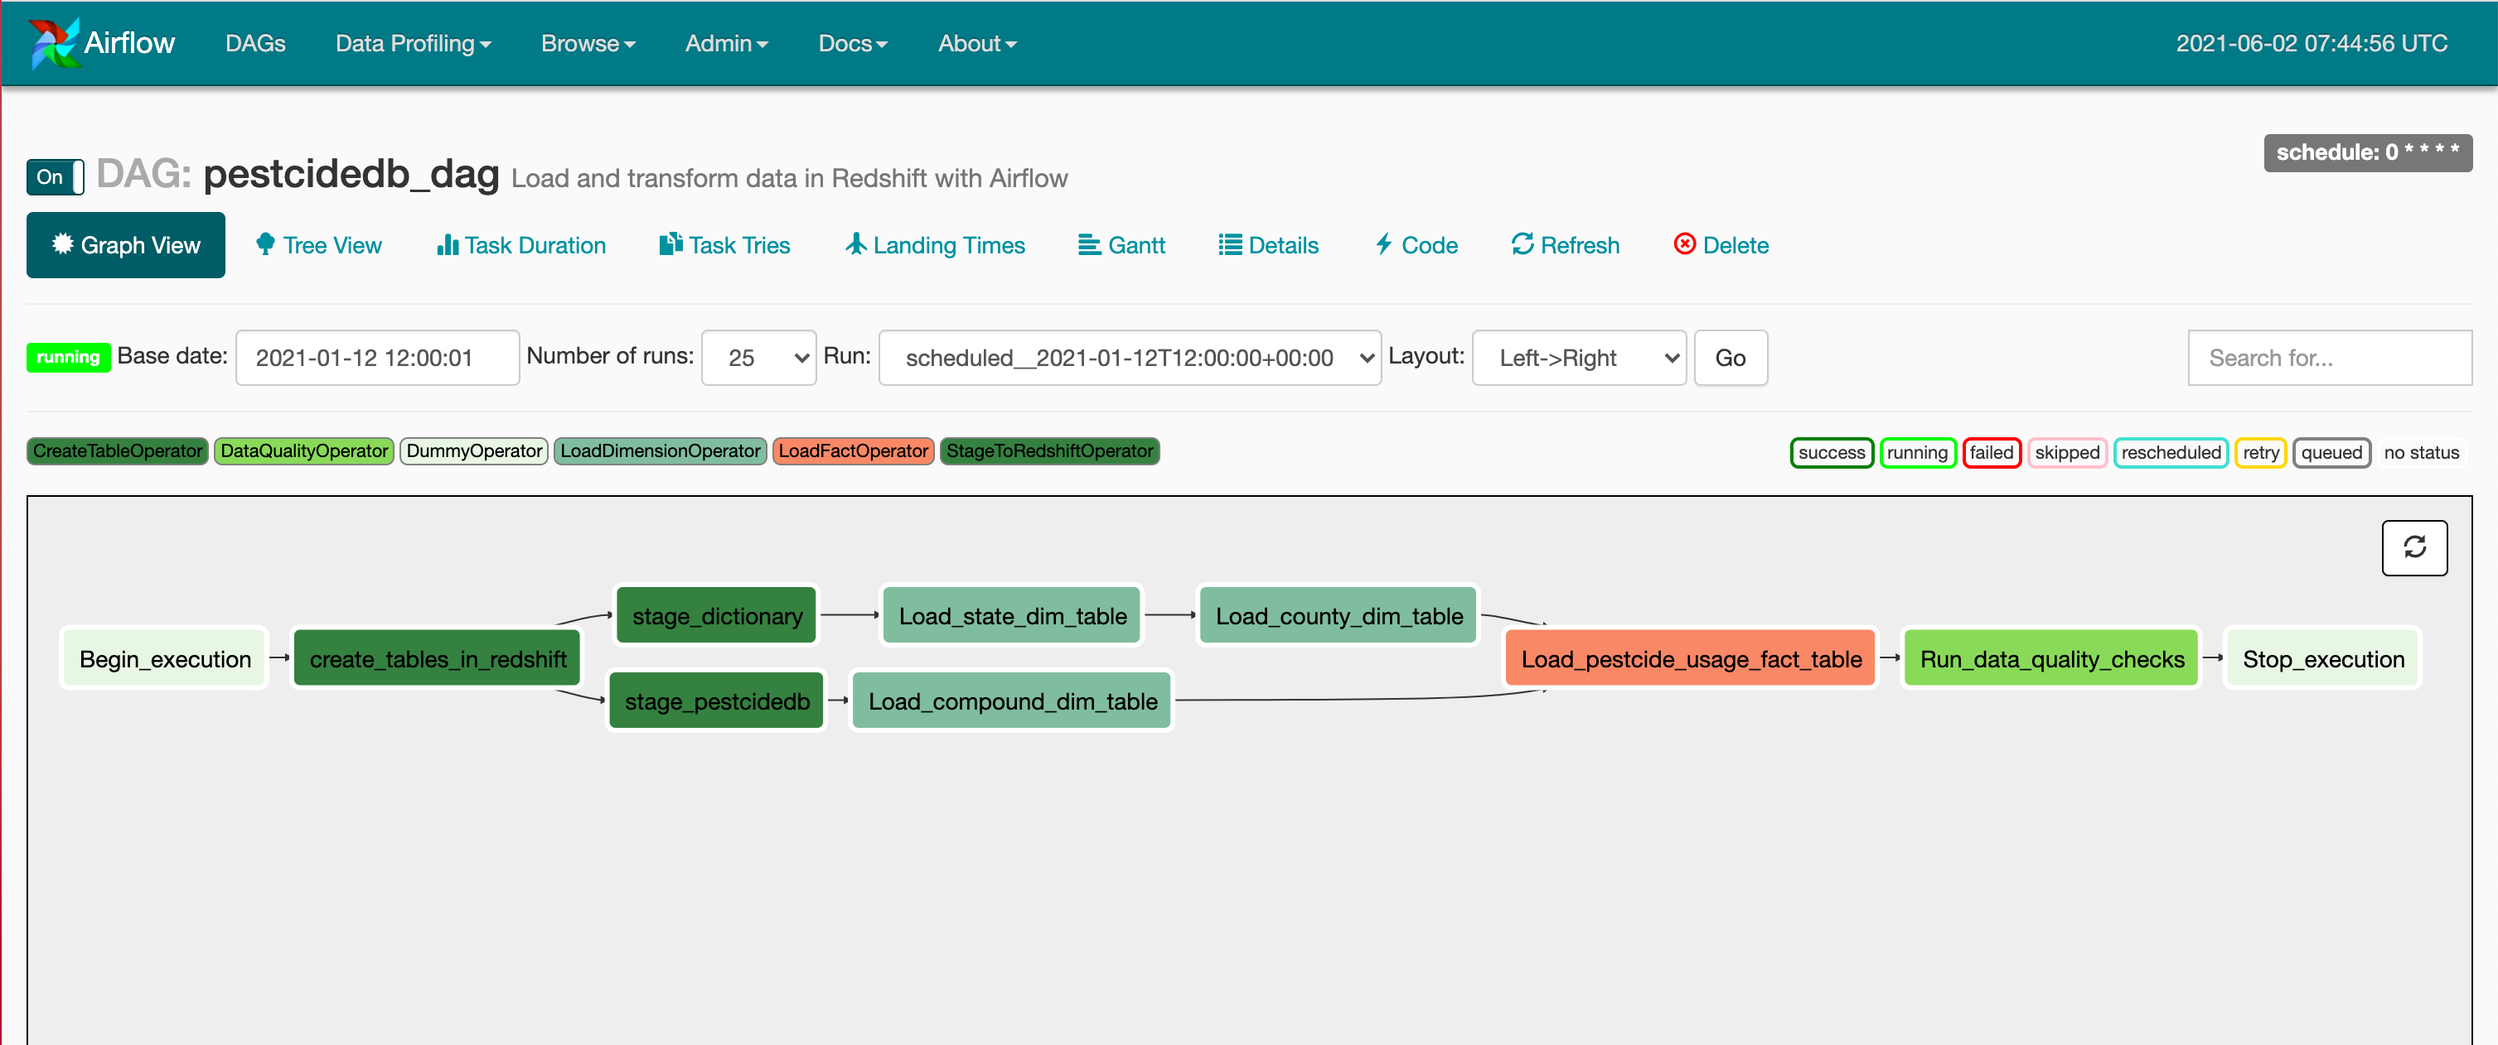
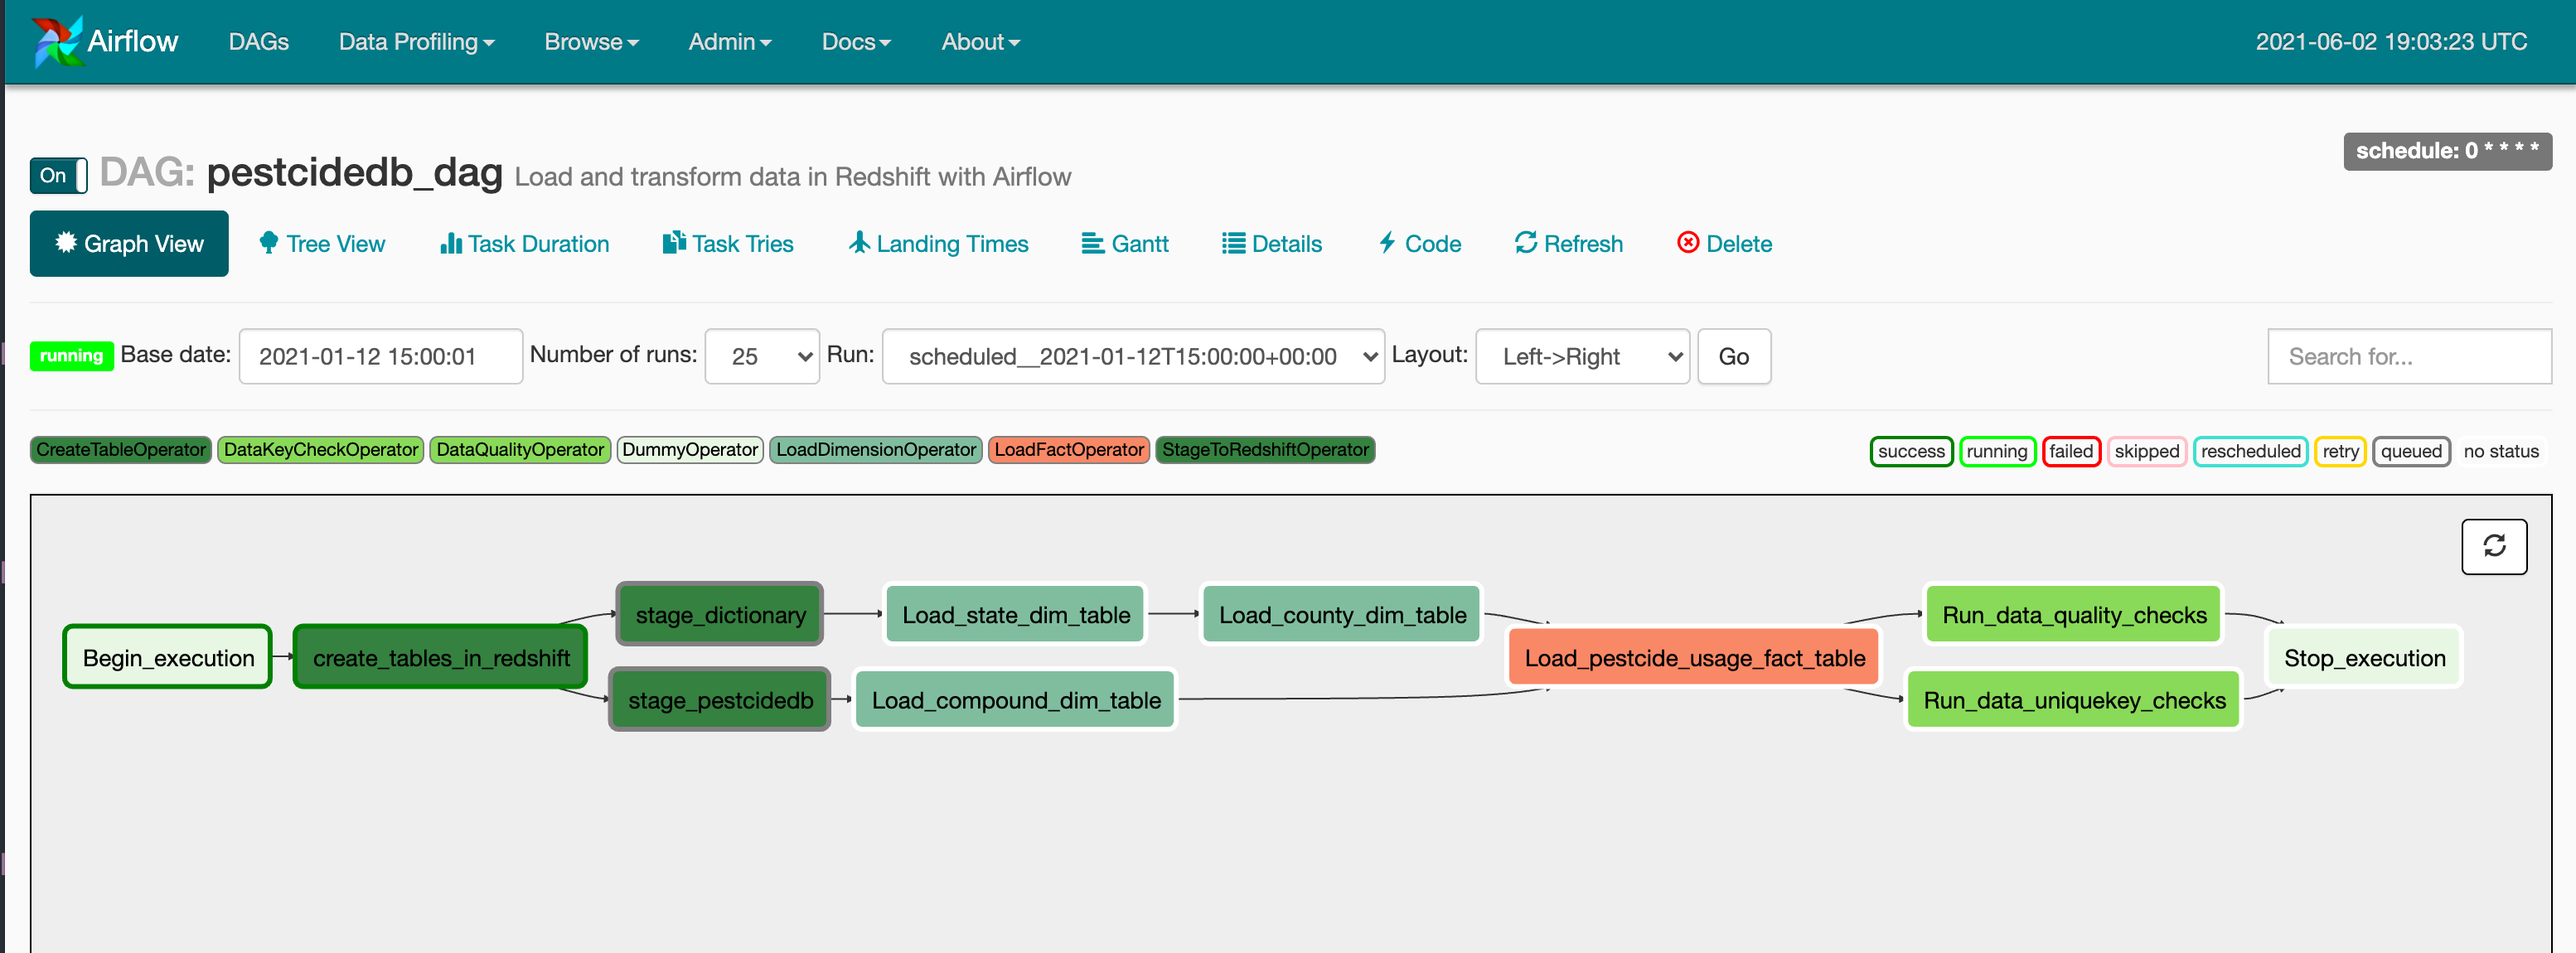
added another quality checker

diff --git a/capstone/pestcide/airflow/dags/dag.py b/capstone/pestcide/airflow/dags/dag.py
@@ -3,7 +3,7 @@ import os
 from airflow import DAG
 from airflow.operators.dummy_operator import DummyOperator
 from airflow.operators import (CreateTableOperator, StageToRedshiftOperator, LoadFactOperator,
-                                LoadDimensionOperator, DataQualityOperator)
+                                LoadDimensionOperator, DataQualityOperator, DataKeyCheckOperator)
 from helpers import SqlQueries
 
 s3_bucket='pestcidedb-capstone'
@@ -101,6 +101,14 @@ run_quality_checks = DataQualityOperator(
     tables=['pestcide_use', 'compounds', 'counties', 'states']
 )
 
+run_uniquekey_checks = DataKeyCheckOperator(
+    task_id='Run_data_uniquekey_checks',
+    dag=dag,
+    aws_credentials_id='aws_credentials',
+    redshift_conn_id='redshift',
+    tables=['compounds', 'counties', 'states']
+)
+
 end_operator = DummyOperator(task_id='Stop_execution',  dag=dag)
 
 start_operator >> create_tables_in_redshift
@@ -109,5 +117,5 @@ stage_dictionary_to_redshift >> load_state_dimension_table
 load_state_dimension_table >> load_county_dimension_table
 stage_pestcidedb_to_redshift >> load_compound_dimension_table
 [load_county_dimension_table, load_compound_dimension_table] >> load_pestcide_usage_table
-load_pestcide_usage_table >> run_quality_checks
-run_quality_checks >> end_operator
+load_pestcide_usage_table >> [run_quality_checks, run_uniquekey_checks]
+[run_quality_checks, run_uniquekey_checks] >> end_operator

diff --git a/capstone/pestcide/airflow/plugins/operators/data_uniquekey_check.py b/capstone/pestcide/airflow/plugins/operators/data_uniquekey_check.py
@@ -1,0 +1,33 @@
+from airflow.hooks.postgres_hook import PostgresHook
+from airflow.models import BaseOperator
+from airflow.utils.decorators import apply_defaults
+
+class DataKeyCheckOperator(BaseOperator):
+
+    ui_color = '#89DA59'
+
+    key_names = {'pestcide_use': 'pestcide_use_id',
+                 'compounds': 'compound_id',
+                 'counties': 'county_id',
+                 'states': 'state_code'}
+
+    @apply_defaults
+    def __init__(self,
+                 aws_credentials_id='',
+                 redshift_conn_id='',
+                 tables=[],
+                 *args, **kwargs):
+
+        super(DataKeyCheckOperator, self).__init__(*args, **kwargs)
+        self.aws_credentials_id = aws_credentials_id
+        self.redshift_conn_id = redshift_conn_id
+        self.tables = tables
+
+    def execute(self, context):
+        redshift = PostgresHook(self.redshift_conn_id)
+        for t in self.tables:
+            records = redshift.get_records(f"SELECT {self.key_names[t]}, count(*) FROM {t} GROUP BY {self.key_names[t]} HAVING count(*) > 1;")
+            if len(records) > 0:
+                self.log.error(f"Data quality check failed for {t}.")
+                raise ValueError(f"Data quality check failed for {t}.")
+            self.log.info(f"Data quality check passed for {t}.")

diff --git a/capstone/pestcide/airflow/plugins/operators/__init__.py b/capstone/pestcide/airflow/plugins/operators/__init__.py
@@ -3,11 +3,13 @@ from operators.stage_redshift import StageToRedshiftOperator
 from operators.load_fact import LoadFactOperator
 from operators.load_dimension import LoadDimensionOperator
 from operators.data_quality import DataQualityOperator
+from operators.data_uniquekey_check import DataKeyCheckOperator
 
 __all__ = [
     'CreateTableOperator',
     'StageToRedshiftOperator',
     'LoadFactOperator',
     'LoadDimensionOperator',
-    'DataQualityOperator'
+    'DataQualityOperator',
+    'DataKeyCheckOperator'
 ]

diff --git a/capstone/pestcide/airflow/plugins/__init__.py b/capstone/pestcide/airflow/plugins/__init__.py
@@ -13,7 +13,8 @@ class PestcideDBPlugin(AirflowPlugin):
         operators.StageToRedshiftOperator,
         operators.LoadFactOperator,
         operators.LoadDimensionOperator,
-        operators.DataQualityOperator
+        operators.DataQualityOperator,
+        operators.DataKeyCheckOperator
     ]
     helpers = [
         helpers.SqlQueries

diff --git a/capstone/pestcide/Readme.md b/capstone/pestcide/Readme.md
@@ -3,7 +3,7 @@ Data Engineering Capstone Project
 
 # Project Summary
 
-The objective of this project was to create an ETL pipeline for pestcide usage by county and year in the United States to form an analytics database on pestcide usage. 
+The objective of this project was to create an ETL pipeline for pestcide usage by county and year in the United States to form an analytics database on pestcide usage. The tools we are going to use here are Amazon S3, Amazon Redshift, Apache Airflow, Jupyter Notebook. We are using two dataset. One is the dataset of pestcide usage based on year and location. The other is the dataset of locations. At the end of DAG, we will check the data quality by checking the count of data and checking the data types are correct in each table and column.
 
 We will read, parse and clean the data from local, Amazon S3 and transfer the data to redshift tables in AWS. We will orchestrate the data flow through Apache Airflow DAGs.
 
@@ -24,6 +24,8 @@ We will read, parse and clean the data from local, Amazon S3 and transfer the da
 
 # Data Model
 
+We are using relational database in Redshift with Postgresql. The reason we use relational database is the data in dictionary and pestcide usage are structured and table based.
+
 ![diagram](docs/diagram.png)
 
 # DAG Views:
@@ -36,13 +38,25 @@ We will read, parse and clean the data from local, Amazon S3 and transfer the da
 
 # How to run
 
-1. Run the Jupyter notebook to explore the dataset
+### 1. Run the Jupyter notebook to explore the dataset
 
-Install postgresql, psql, jupyter notebook and other required python packages; Run create_table.py; Run jupyter-lab and work on the etl.ipynb
+1.1 Install postgresql, psql, jupyter notebook and other required python packages;
 
-2. Run the Airflow
+1.2 Run create_table.py;
 
-Create the Redshift cluster in AWS; Start the airflow in workspace.
+1.3 Run jupyter-lab and work on the etl.ipynb.
+
+### 2. Run the Airflow
+
+1.1 Create the Redshift cluster in AWS;
+
+1.2 Create an IAM role with key and secret;
+
+1.3 Start the airflow in workspace;
+
+1.4 Configure the AWS credential and Redshift connection in Airflow->Admin->Connections;
+
+1.5 Turn the DAG on and check the result.
 
 
 # Scenarios
